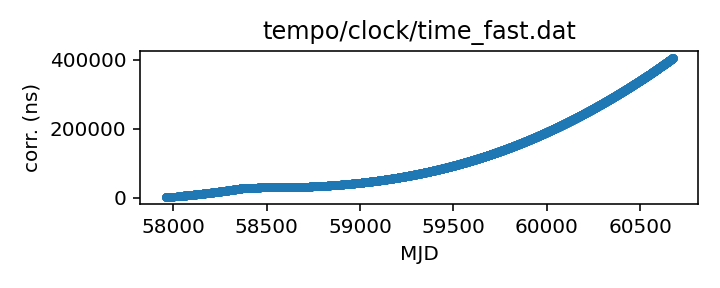
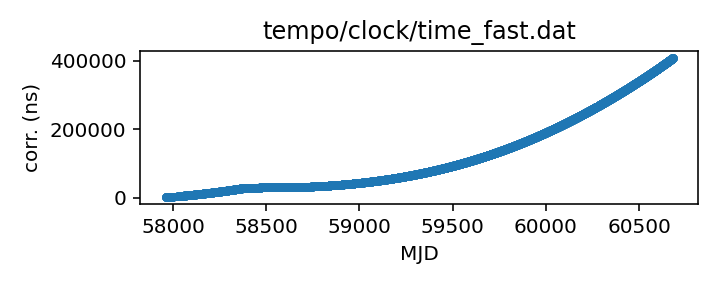
Routine gh-pages update from Github action Wed Jan  8 20:37:41 UTC 2025

diff --git a/status.md b/status.md
@@ -13,18 +13,18 @@ name of each clock file links to a page with more details.
 
 | Name | File | Corrections start | Corrections end | Last check date | Last check result 
 |:--- |:--- | --- | --- | --- |:--- 
-| [GPS to UTC](T2runtime/clock/gps2utc.clk.html) | `T2runtime/clock/gps2utc.clk` | 1993-01-01 MJD 48988.0 | 2024-11-30 MJD 60644.0 | 2025-01-07 | Unchanged 
-| [GPS to UTC (Combined Clock)](T2runtime/clock/gps2utc_cc.clk.html) | `T2runtime/clock/gps2utc_cc.clk` | 1993-01-01 MJD 48988.0 | 2024-11-30 MJD 60644.0 | 2025-01-07 | Unchanged 
-| [GPS to UTC (Corrected)](T2runtime/clock/gps2utc_c0p.clk.html) | `T2runtime/clock/gps2utc_c0p.clk` | 2010-12-29 MJD 55559.0 | 2024-11-30 MJD 60644.0 | 2025-01-07 | Unchanged 
-| [GBT](tempo/clock/time_gbt.dat.html) | `tempo/clock/time_gbt.dat` | 2000-12-31 MJD 51909.5 | 2024-05-18 MJD 60448.5 | 2025-01-07 | **Validation failed** 
+| [GPS to UTC](T2runtime/clock/gps2utc.clk.html) | `T2runtime/clock/gps2utc.clk` | 1993-01-01 MJD 48988.0 | 2024-11-30 MJD 60644.0 | 2025-01-08 | Unchanged 
+| [GPS to UTC (Combined Clock)](T2runtime/clock/gps2utc_cc.clk.html) | `T2runtime/clock/gps2utc_cc.clk` | 1993-01-01 MJD 48988.0 | 2024-11-30 MJD 60644.0 | 2025-01-08 | Unchanged 
+| [GPS to UTC (Corrected)](T2runtime/clock/gps2utc_c0p.clk.html) | `T2runtime/clock/gps2utc_c0p.clk` | 2010-12-29 MJD 55559.0 | 2024-11-30 MJD 60644.0 | 2025-01-08 | Unchanged 
+| [GBT](tempo/clock/time_gbt.dat.html) | `tempo/clock/time_gbt.dat` | 2000-12-31 MJD 51909.5 | 2024-05-18 MJD 60448.5 | 2025-01-08 | **Validation failed** 
 | [GBT (TEMPO2 converted from TEMPO)](T2runtime/clock/gbt2gps.clk.html) | `T2runtime/clock/gbt2gps.clk` | 2000-12-31 MJD 51909.5 | 2024-05-18 MJD 60448.5 | 2024-05-19 | Updated 
-| [Jodrell Bank](T2runtime/clock/jb2gps.clk.html) | `T2runtime/clock/jb2gps.clk` | 2006-10-13 MJD 54021.4 | 2024-11-07 MJD 60621.0 | 2025-01-01 | Unchanged 
-| [Jodrell Bank Roach](T2runtime/clock/jbroach2jb.clk.html) | `T2runtime/clock/jbroach2jb.clk` | 2006-10-13 MJD 54021.4 | 2018-03-20 MJD 58197.6 | 2025-01-01 | Unchanged 
-| [Jodrell Bank DFB](T2runtime/clock/jbdfb2jb.clk.html) | `T2runtime/clock/jbdfb2jb.clk` | 2006-10-13 MJD 54021.4 | 2017-05-11 MJD 57884.0 | 2025-01-01 | Unchanged 
-| [Meerkat (observatory)](T2runtime/clock/mk2utc_observatory.clk.html) | `T2runtime/clock/mk2utc_observatory.clk` | 2019-01-01 MJD 58484.0 | 2024-04-24 MJD 60425.0 | 2025-01-01 | **Failed to download** 
-| [Leap seconds](tempo/clock/leap.sec.html) | `tempo/clock/leap.sec` | 1972-07-01 MJD 41499.0 | 2017-01-01 MJD 57754.0 | 2025-01-07 | Unchanged 
-| [UT1 table](tempo/clock/ut1.dat.html) | `tempo/clock/ut1.dat` | 1973-01-02 MJD 41684.0 | 2026-01-10 MJD 61050.0 | 2025-01-07 | Unchanged 
-| [UT1 table](T2runtime/clock/ut1.dat.html) | `T2runtime/clock/ut1.dat` | 1973-01-02 MJD 41684.0 | 2026-01-10 MJD 61050.0 | 2025-01-07 | Unchanged 
+| [Jodrell Bank](T2runtime/clock/jb2gps.clk.html) | `T2runtime/clock/jb2gps.clk` | 2006-10-13 MJD 54021.4 | 2024-11-07 MJD 60621.0 | 2025-01-08 | Unchanged 
+| [Jodrell Bank Roach](T2runtime/clock/jbroach2jb.clk.html) | `T2runtime/clock/jbroach2jb.clk` | 2006-10-13 MJD 54021.4 | 2018-03-20 MJD 58197.6 | 2025-01-08 | Unchanged 
+| [Jodrell Bank DFB](T2runtime/clock/jbdfb2jb.clk.html) | `T2runtime/clock/jbdfb2jb.clk` | 2006-10-13 MJD 54021.4 | 2017-05-11 MJD 57884.0 | 2025-01-08 | Unchanged 
+| [Meerkat (observatory)](T2runtime/clock/mk2utc_observatory.clk.html) | `T2runtime/clock/mk2utc_observatory.clk` | 2019-01-01 MJD 58484.0 | 2024-04-24 MJD 60425.0 | 2025-01-08 | **Failed to download** 
+| [Leap seconds](tempo/clock/leap.sec.html) | `tempo/clock/leap.sec` | 1972-07-01 MJD 41499.0 | 2017-01-01 MJD 57754.0 | 2025-01-08 | Unchanged 
+| [UT1 table](tempo/clock/ut1.dat.html) | `tempo/clock/ut1.dat` | 1973-01-02 MJD 41684.0 | 2026-01-10 MJD 61050.0 | 2025-01-08 | Unchanged 
+| [UT1 table](T2runtime/clock/ut1.dat.html) | `T2runtime/clock/ut1.dat` | 1973-01-02 MJD 41684.0 | 2026-01-10 MJD 61050.0 | 2025-01-08 | Unchanged 
 
 
 
@@ -67,26 +67,26 @@ name of each clock file links to a page with more details.
 
 | Name | File | Corrections start | Corrections end | Last check date | Last check result 
 |:--- |:--- | --- | --- | --- |:--- 
-| [GPS to UTC (TEMPO2)](T2runtime/clock/gps2utc_tempo2.clk.html) | `T2runtime/clock/gps2utc_tempo2.clk` | 1996-03-27 MJD 50169.0 | 2022-10-27 MJD 59879.0 | 2025-01-01 | **Failed to download** 
-| [GBT (TEMPO2)](T2runtime/clock/gbt2gps_tempo2.clk.html) | `T2runtime/clock/gbt2gps_tempo2.clk` | 2000-12-31 MJD 51909.5 | 2020-02-25 MJD 58904.5 | 2025-01-01 | Unchanged 
-| [Jodrell Bank (TEMPO)](tempo/clock/time_jb.dat.html) | `tempo/clock/time_jb.dat` | 2006-10-13 MJD 54021.4 | 2019-05-13 MJD 58616.2 | 2025-01-01 | Unchanged 
-| [VLA](tempo/clock/time_vla.dat.html) | `tempo/clock/time_vla.dat` | 1990-10-27 MJD 48191.2 | 2021-03-07 MJD 59280.5 | 2025-01-01 | Unchanged 
-| [VLA (TEMPO2)](T2runtime/clock/vla2gps.clk.html) | `T2runtime/clock/vla2gps.clk` | 2015-02-01 MJD 57054.6 | 2021-03-07 MJD 59280.5 | 2025-01-01 | Unchanged 
-| [VLA to NIST](T2runtime/clock/vla2nist.clk.html) | `T2runtime/clock/vla2nist.clk` | 1990-10-27 MJD 48191.2 | 1993-11-13 MJD 49304.0 | 2025-01-01 | Unchanged 
-| [FAST](tempo/clock/time_fast.dat.html) | `tempo/clock/time_fast.dat` | 2017-07-27 MJD 57961.0 | 2024-12-30 MJD 60675.0 | 2025-01-01 | Updated 
-| [WSRT](T2runtime/clock/wsrt2gps.clk.html) | `T2runtime/clock/wsrt2gps.clk` | 1999-01-01 MJD 51179.5 | 2015-06-29 MJD 57202.1 | 2025-01-01 | Unchanged 
-| [WSRT (TEMPO)](tempo/clock/time_wsrt.dat.html) | `tempo/clock/time_wsrt.dat` | 1987-07-24 MJD 47000.0 | 2007-12-24 MJD 54458.0 | 2025-01-01 | **Validation failed** 
-| [Parkes](T2runtime/clock/pks2gps.clk.html) | `T2runtime/clock/pks2gps.clk` | 1858-11-17 MJD 0.0 | 2024-11-30 MJD 60644.1 | 2025-01-01 | Unchanged 
-| [Parkes (TEMPO)](tempo/clock/time_pks.dat.html) | `tempo/clock/time_pks.dat` | 1979-05-07 MJD 44000.0 | 2011-07-03 MJD 55745.8 | 2025-01-01 | **Validation failed** 
-| [SRT](T2runtime/clock/srt2gps.clk.html) | `T2runtime/clock/srt2gps.clk` | 2013-03-20 MJD 56371.0 | 2019-12-11 MJD 58828.0 | 2025-01-01 | Unchanged 
-| [Effelsberg](T2runtime/clock/eff2gps.clk.html) | `T2runtime/clock/eff2gps.clk` | 1993-11-29 MJD 49320.0 | 2015-06-22 MJD 57195.5 | 2025-01-01 | Unchanged 
-| [Effelsberg Asterix/PSRix](T2runtime/clock/effix2gps.clk.html) | `T2runtime/clock/effix2gps.clk` | 2011-01-01 MJD 55562.5 | 2021-03-21 MJD 59294.5 | 2025-01-01 | Unchanged 
-| [LEAP](T2runtime/clock/leap2effix.clk.html) | `T2runtime/clock/leap2effix.clk` | 2012-10-29 MJD 56230.0 | 2014-03-04 MJD 56720.0 | 2025-01-01 | Unchanged 
-| [NUPPI](tempo/clock/time_nuppi.dat.html) | `tempo/clock/time_nuppi.dat` | 2005-03-07 MJD 53436.0 | 2015-11-08 MJD 57334.6 | 2025-01-01 | Unchanged 
-| [Meerkat (TEMPO2)](T2runtime/clock/mk2utc.clk.html) | `T2runtime/clock/mk2utc.clk` | 2019-01-01 MJD 58484.0 | 2024-09-23 MJD 60576.9 | 2025-01-01 | Unchanged 
-| [MOST](T2runtime/clock/mo2gps.clk.html) | `T2runtime/clock/mo2gps.clk` | 2003-12-27 MJD 53000.0 | 2018-09-06 MJD 58367.0 | 2025-01-01 | Unchanged 
-| [Nancay to obspm](T2runtime/clock/ncyobs2obspm.clk.html) | `T2runtime/clock/ncyobs2obspm.clk` | 1988-05-18 MJD 47299.6 | 2023-10-27 MJD 60244.0 | 2025-01-01 | Unchanged 
-| [obspm](T2runtime/clock/obspm2gps.clk.html) | `T2runtime/clock/obspm2gps.clk` | 2003-12-01 MJD 52974.0 | 2023-10-27 MJD 60244.0 | 2025-01-01 | Unchanged 
+| [GPS to UTC (TEMPO2)](T2runtime/clock/gps2utc_tempo2.clk.html) | `T2runtime/clock/gps2utc_tempo2.clk` | 1996-03-27 MJD 50169.0 | 2022-10-27 MJD 59879.0 | 2025-01-08 | **Failed to download** 
+| [GBT (TEMPO2)](T2runtime/clock/gbt2gps_tempo2.clk.html) | `T2runtime/clock/gbt2gps_tempo2.clk` | 2000-12-31 MJD 51909.5 | 2020-02-25 MJD 58904.5 | 2025-01-08 | Unchanged 
+| [Jodrell Bank (TEMPO)](tempo/clock/time_jb.dat.html) | `tempo/clock/time_jb.dat` | 2006-10-13 MJD 54021.4 | 2019-05-13 MJD 58616.2 | 2025-01-08 | Unchanged 
+| [VLA](tempo/clock/time_vla.dat.html) | `tempo/clock/time_vla.dat` | 1990-10-27 MJD 48191.2 | 2021-03-07 MJD 59280.5 | 2025-01-08 | Unchanged 
+| [VLA (TEMPO2)](T2runtime/clock/vla2gps.clk.html) | `T2runtime/clock/vla2gps.clk` | 2015-02-01 MJD 57054.6 | 2021-03-07 MJD 59280.5 | 2025-01-08 | Unchanged 
+| [VLA to NIST](T2runtime/clock/vla2nist.clk.html) | `T2runtime/clock/vla2nist.clk` | 1990-10-27 MJD 48191.2 | 1993-11-13 MJD 49304.0 | 2025-01-08 | Unchanged 
+| [FAST](tempo/clock/time_fast.dat.html) | `tempo/clock/time_fast.dat` | 2017-07-27 MJD 57961.0 | 2025-01-06 MJD 60682.0 | 2025-01-08 | Updated 
+| [WSRT](T2runtime/clock/wsrt2gps.clk.html) | `T2runtime/clock/wsrt2gps.clk` | 1999-01-01 MJD 51179.5 | 2015-06-29 MJD 57202.1 | 2025-01-08 | Unchanged 
+| [WSRT (TEMPO)](tempo/clock/time_wsrt.dat.html) | `tempo/clock/time_wsrt.dat` | 1987-07-24 MJD 47000.0 | 2007-12-24 MJD 54458.0 | 2025-01-08 | **Validation failed** 
+| [Parkes](T2runtime/clock/pks2gps.clk.html) | `T2runtime/clock/pks2gps.clk` | 1858-11-17 MJD 0.0 | 2024-11-30 MJD 60644.1 | 2025-01-08 | Unchanged 
+| [Parkes (TEMPO)](tempo/clock/time_pks.dat.html) | `tempo/clock/time_pks.dat` | 1979-05-07 MJD 44000.0 | 2011-07-03 MJD 55745.8 | 2025-01-08 | **Validation failed** 
+| [SRT](T2runtime/clock/srt2gps.clk.html) | `T2runtime/clock/srt2gps.clk` | 2013-03-20 MJD 56371.0 | 2019-12-11 MJD 58828.0 | 2025-01-08 | Unchanged 
+| [Effelsberg](T2runtime/clock/eff2gps.clk.html) | `T2runtime/clock/eff2gps.clk` | 1993-11-29 MJD 49320.0 | 2015-06-22 MJD 57195.5 | 2025-01-08 | Unchanged 
+| [Effelsberg Asterix/PSRix](T2runtime/clock/effix2gps.clk.html) | `T2runtime/clock/effix2gps.clk` | 2011-01-01 MJD 55562.5 | 2021-03-21 MJD 59294.5 | 2025-01-08 | Unchanged 
+| [LEAP](T2runtime/clock/leap2effix.clk.html) | `T2runtime/clock/leap2effix.clk` | 2012-10-29 MJD 56230.0 | 2014-03-04 MJD 56720.0 | 2025-01-08 | Unchanged 
+| [NUPPI](tempo/clock/time_nuppi.dat.html) | `tempo/clock/time_nuppi.dat` | 2005-03-07 MJD 53436.0 | 2015-11-08 MJD 57334.6 | 2025-01-08 | Unchanged 
+| [Meerkat (TEMPO2)](T2runtime/clock/mk2utc.clk.html) | `T2runtime/clock/mk2utc.clk` | 2019-01-01 MJD 58484.0 | 2024-09-23 MJD 60576.9 | 2025-01-08 | Unchanged 
+| [MOST](T2runtime/clock/mo2gps.clk.html) | `T2runtime/clock/mo2gps.clk` | 2003-12-27 MJD 53000.0 | 2018-09-06 MJD 58367.0 | 2025-01-08 | Unchanged 
+| [Nancay to obspm](T2runtime/clock/ncyobs2obspm.clk.html) | `T2runtime/clock/ncyobs2obspm.clk` | 1988-05-18 MJD 47299.6 | 2023-10-27 MJD 60244.0 | 2025-01-08 | Unchanged 
+| [obspm](T2runtime/clock/obspm2gps.clk.html) | `T2runtime/clock/obspm2gps.clk` | 2003-12-01 MJD 52974.0 | 2023-10-27 MJD 60244.0 | 2025-01-08 | Unchanged 
 
 
 ### Further information:

diff --git a/tempo/clock/time_pks.dat.md b/tempo/clock/time_pks.dat.md
@@ -20,12 +20,11 @@ telescopes in the same file, distinguished only by observatory code.
 | Clock file start | 1979-05-07 MJD 44000.0 |
 | Clock file end | 2011-07-03 MJD 55745.8 |
 | Update interval (days) | 7 |
-| Last update attempt | 2025-01-01 |
+| Last update attempt | 2025-01-08 |
 | Last update result | Validation failed |
 
 Log entries from the last few update attempts:
 ```
-2024-09-20 20:33:31.784 - Validation failed: Unable to read new version of tempo/clock/time_pks.dat: Clock file /tmp/astropy-download-1893-m35dbe__ appears to be out of order: 49959.0 > 49958.0
 2024-09-27 20:33:24.548 - Validation failed: Unable to read new version of tempo/clock/time_pks.dat: Clock file /tmp/astropy-download-1803-aho2ayns appears to be out of order: 49959.0 > 49958.0
 2024-10-04 20:33:16.722 - Validation failed: Unable to read new version of tempo/clock/time_pks.dat: Clock file /tmp/astropy-download-1844-zxupk919 appears to be out of order: 49959.0 > 49958.0
 2024-10-11 20:39:11.255 - Validation failed: Unable to read new version of tempo/clock/time_pks.dat: Clock file /tmp/astropy-download-2062-ylxvq7_t appears to be out of order: 49959.0 > 49958.0
@@ -35,6 +34,7 @@ Log entries from the last few update attempts:
 2024-12-18 20:39:24.379 - Validation failed: Unable to read new version of tempo/clock/time_pks.dat: Clock file /tmp/astropy-download-2274-q5yfgh14 appears to be out of order: 49959.0 > 49958.0
 2024-12-25 20:35:15.566 - Validation failed: Unable to read new version of tempo/clock/time_pks.dat: Clock file /tmp/astropy-download-2307-uzx6wu0r appears to be out of order: 49959.0 > 49958.0
 2025-01-01 20:35:37.359 - Validation failed: Unable to read new version of tempo/clock/time_pks.dat: Clock file /tmp/astropy-download-2322-zqzvwthm appears to be out of order: 49959.0 > 49958.0
+2025-01-08 20:36:54.237 - Validation failed: Unable to read new version of tempo/clock/time_pks.dat: Clock file /tmp/astropy-download-2276-gpk3q2dj appears to be out of order: 49959.0 > 49958.0
 ```
 [Full log](https://raw.githubusercontent.com/ipta/pulsar-clock-corrections/main/log/tempo/clock/time_pks.dat.log)
 

diff --git a/tempo/clock/time_wsrt.dat.md b/tempo/clock/time_wsrt.dat.md
@@ -20,12 +20,11 @@ should be the same information.
 | Clock file start | 1987-07-24 MJD 47000.0 |
 | Clock file end | 2007-12-24 MJD 54458.0 |
 | Update interval (days) | 7 |
-| Last update attempt | 2025-01-01 |
+| Last update attempt | 2025-01-08 |
 | Last update result | Validation failed |
 
 Log entries from the last few update attempts:
 ```
-2024-09-20 20:33:26.812 - Validation failed: Unable to read new version of tempo/clock/time_wsrt.dat: Clock file /tmp/astropy-download-1893-omoncdps appears to be out of order: 53000.05 > 53000.0
 2024-09-27 20:33:19.383 - Validation failed: Unable to read new version of tempo/clock/time_wsrt.dat: Clock file /tmp/astropy-download-1803-r_a7vr88 appears to be out of order: 53000.05 > 53000.0
 2024-10-04 20:33:11.870 - Validation failed: Unable to read new version of tempo/clock/time_wsrt.dat: Clock file /tmp/astropy-download-1844-0osy84qv appears to be out of order: 53000.05 > 53000.0
 2024-10-11 20:39:06.536 - Validation failed: Unable to read new version of tempo/clock/time_wsrt.dat: Clock file /tmp/astropy-download-2062-gcmj1d9q appears to be out of order: 53000.05 > 53000.0
@@ -35,6 +34,7 @@ Log entries from the last few update attempts:
 2024-12-18 20:39:20.524 - Validation failed: Unable to read new version of tempo/clock/time_wsrt.dat: Clock file /tmp/astropy-download-2274-sevzn3la appears to be out of order: 53000.05 > 53000.0
 2024-12-25 20:35:09.858 - Validation failed: Unable to read new version of tempo/clock/time_wsrt.dat: Clock file /tmp/astropy-download-2307-1yb4h9et appears to be out of order: 53000.05 > 53000.0
 2025-01-01 20:35:30.783 - Validation failed: Unable to read new version of tempo/clock/time_wsrt.dat: Clock file /tmp/astropy-download-2322-p_8_1oop appears to be out of order: 53000.05 > 53000.0
+2025-01-08 20:36:50.333 - Validation failed: Unable to read new version of tempo/clock/time_wsrt.dat: Clock file /tmp/astropy-download-2276-l3i_8691 appears to be out of order: 53000.05 > 53000.0
 ```
 [Full log](https://raw.githubusercontent.com/ipta/pulsar-clock-corrections/main/log/tempo/clock/time_wsrt.dat.log)
 

diff --git a/tempo/clock/time_gbt.dat.md b/tempo/clock/time_gbt.dat.md
@@ -33,12 +33,11 @@ If questions arise, contact Ryan S. Lynch <rlynch@nrao.edu>.
 | Clock file start | 2000-12-31 MJD 51909.5 |
 | Clock file end | 2024-05-18 MJD 60448.5 |
 | Update interval (days) | 1 |
-| Last update attempt | 2025-01-07 |
+| Last update attempt | 2025-01-08 |
 | Last update result | Validation failed |
 
 Log entries from the last few update attempts:
 ```
-2024-12-29 20:34:16.889 - Validation failed: New version of tempo/clock/time_gbt.dat clock corrections differ from old version where they overlap in 11 places
 2024-12-30 20:35:00.232 - Validation failed: New version of tempo/clock/time_gbt.dat clock corrections differ from old version where they overlap in 11 places
 2024-12-31 20:34:37.778 - Validation failed: New version of tempo/clock/time_gbt.dat clock corrections differ from old version where they overlap in 11 places
 2025-01-01 20:35:22.949 - Validation failed: New version of tempo/clock/time_gbt.dat clock corrections differ from old version where they overlap in 11 places
@@ -48,6 +47,7 @@ Log entries from the last few update attempts:
 2025-01-05 20:34:24.272 - Validation failed: New version of tempo/clock/time_gbt.dat clock corrections differ from old version where they overlap in 11 places
 2025-01-06 20:35:01.444 - Validation failed: New version of tempo/clock/time_gbt.dat clock corrections differ from old version where they overlap in 11 places
 2025-01-07 20:36:07.109 - Validation failed: New version of tempo/clock/time_gbt.dat clock corrections differ from old version where they overlap in 11 places
+2025-01-08 20:36:44.963 - Validation failed: New version of tempo/clock/time_gbt.dat clock corrections differ from old version where they overlap in 11 places
 ```
 [Full log](https://raw.githubusercontent.com/ipta/pulsar-clock-corrections/main/log/tempo/clock/time_gbt.dat.log)
 

diff --git a/T2runtime/clock/mk2utc_observatory.clk.md b/T2runtime/clock/mk2utc_observatory.clk.md
@@ -21,12 +21,11 @@ If questions arise, contact Ryan Shannon <rshannon@swin.edu.au>
 | Clock file start | 2019-01-01 MJD 58484.0 |
 | Clock file end | 2024-04-24 MJD 60425.0 |
 | Update interval (days) | 7 |
-| Last update attempt | 2025-01-01 |
+| Last update attempt | 2025-01-08 |
 | Last update result | Failed to download |
 
 Log entries from the last few update attempts:
 ```
-2024-09-20 20:33:35.218 - Validation failed: Unable to read new version of T2runtime/clock/mk2utc_observatory.clk: Header line must start with # and contain two time scales: 'The SARAO archive is currently down. We apologise for the inconvenience. We will remove this alert once the archive is available again.\n'
 2024-09-27 20:33:26.829 - Failed to download: HTTP Error 403: Forbidden
 2024-10-04 20:33:22.425 - Failed to download: HTTP Error 403: Forbidden
 2024-10-11 20:39:13.519 - Failed to download: HTTP Error 403: Forbidden
@@ -36,6 +35,7 @@ Log entries from the last few update attempts:
 2024-12-18 20:39:27.691 - Failed to download: HTTP Error 403: Forbidden
 2024-12-25 20:35:18.261 - Failed to download: HTTP Error 403: Forbidden
 2025-01-01 20:35:40.302 - Failed to download: HTTP Error 403: Forbidden
+2025-01-08 20:37:07.662 - Failed to download: The read operation timed out
 ```
 [Full log](https://raw.githubusercontent.com/ipta/pulsar-clock-corrections/main/log/T2runtime/clock/mk2utc_observatory.clk.log)
 

diff --git a/T2runtime/clock/gps2utc_tempo2.clk.md b/T2runtime/clock/gps2utc_tempo2.clk.md
@@ -27,12 +27,11 @@ are from the column C0').
 | Clock file start | 1996-03-27 MJD 50169.0 |
 | Clock file end | 2022-10-27 MJD 59879.0 |
 | Update interval (days) | 7 |
-| Last update attempt | 2025-01-01 |
+| Last update attempt | 2025-01-08 |
 | Last update result | Failed to download |
 
 Log entries from the last few update attempts:
 ```
-2024-09-20 20:32:57.970 - Failed to download: HTTP Error 404: Not Found
 2024-09-27 20:32:51.886 - Failed to download: HTTP Error 404: Not Found
 2024-10-04 20:32:41.616 - Failed to download: HTTP Error 404: Not Found
 2024-10-11 20:38:36.240 - Failed to download: HTTP Error 404: Not Found
@@ -42,6 +41,7 @@ Log entries from the last few update attempts:
 2024-12-18 20:35:22.623 - Failed to download: HTTP Error 404: Not Found
 2024-12-25 20:31:25.759 - Failed to download: HTTP Error 404: Not Found
 2025-01-01 20:31:40.086 - Failed to download: HTTP Error 404: Not Found
+2025-01-08 20:32:59.291 - Failed to download: HTTP Error 404: Not Found
 ```
 [Full log](https://raw.githubusercontent.com/ipta/pulsar-clock-corrections/main/log/T2runtime/clock/gps2utc_tempo2.clk.log)
 

diff --git a/tempo/clock/time_fast.dat.md b/tempo/clock/time_fast.dat.md
@@ -14,14 +14,13 @@ This file is pulled from the FAST_ClockFile repository.
 | Format | tempo |
 | Bogus last correction | False |
 | Clock file start | 2017-07-27 MJD 57961.0 |
-| Clock file end | 2024-12-30 MJD 60675.0 |
+| Clock file end | 2025-01-06 MJD 60682.0 |
 | Update interval (days) | 7 |
-| Last update attempt | 2025-01-01 |
+| Last update attempt | 2025-01-08 |
 | Last update result | Updated |
 
 Log entries from the last few update attempts:
 ```
-2024-09-20 20:33:23.772 - Updated
 2024-09-27 20:33:18.896 - Updated
 2024-10-04 20:33:11.391 - Updated
 2024-10-11 20:39:06.020 - Updated
@@ -31,6 +30,7 @@ Log entries from the last few update attempts:
 2024-12-18 20:39:19.819 - Updated
 2024-12-25 20:35:02.820 - Updated
 2025-01-01 20:35:27.188 - Updated
+2025-01-08 20:36:49.677 - Updated
 ```
 [Full log](https://raw.githubusercontent.com/ipta/pulsar-clock-corrections/main/log/tempo/clock/time_fast.dat.log)
 

diff --git a/T2runtime/clock/gps2utc_c0p.clk.md b/T2runtime/clock/gps2utc_c0p.clk.md
@@ -30,12 +30,11 @@ about the BIPM's published corrections, contact <tai@bipm.org>.
 | Clock file start | 2010-12-29 MJD 55559.0 |
 | Clock file end | 2024-11-30 MJD 60644.0 |
 | Update interval (days) | 1 |
-| Last update attempt | 2025-01-07 |
+| Last update attempt | 2025-01-08 |
 | Last update result | Unchanged |
 
 Log entries from the last few update attempts:
 ```
-2024-12-29 20:34:16.408 - Unchanged
 2024-12-30 20:34:59.812 - Unchanged
 2024-12-31 20:34:37.350 - Unchanged
 2025-01-01 20:35:22.181 - Unchanged
@@ -45,6 +44,7 @@ Log entries from the last few update attempts:
 2025-01-05 20:34:23.846 - Unchanged
 2025-01-06 20:35:01.151 - Unchanged
 2025-01-07 20:36:06.879 - Unchanged
+2025-01-08 20:36:44.163 - Unchanged
 ```
 [Full log](https://raw.githubusercontent.com/ipta/pulsar-clock-corrections/main/log/T2runtime/clock/gps2utc_c0p.clk.log)
 

diff --git a/T2runtime/clock/gps2utc_cc.clk.md b/T2runtime/clock/gps2utc_cc.clk.md
@@ -29,12 +29,11 @@ about the BIPM's published corrections, contact <tai@bipm.org>.
 | Clock file start | 1993-01-01 MJD 48988.0 |
 | Clock file end | 2024-11-30 MJD 60644.0 |
 | Update interval (days) | 1 |
-| Last update attempt | 2025-01-07 |
+| Last update attempt | 2025-01-08 |
 | Last update result | Unchanged |
 
 Log entries from the last few update attempts:
 ```
-2024-12-29 20:34:16.401 - Unchanged
 2024-12-30 20:34:59.804 - Unchanged
 2024-12-31 20:34:37.343 - Unchanged
 2025-01-01 20:35:22.173 - Unchanged
@@ -44,6 +43,7 @@ Log entries from the last few update attempts:
 2025-01-05 20:34:23.839 - Unchanged
 2025-01-06 20:35:01.144 - Unchanged
 2025-01-07 20:36:06.872 - Unchanged
+2025-01-08 20:36:44.155 - Unchanged
 ```
 [Full log](https://raw.githubusercontent.com/ipta/pulsar-clock-corrections/main/log/T2runtime/clock/gps2utc_cc.clk.log)
 

diff --git a/T2runtime/clock/gps2utc.clk.md b/T2runtime/clock/gps2utc.clk.md
@@ -32,12 +32,11 @@ about the BIPM's published corrections, contact <tai@bipm.org>.
 | Clock file start | 1993-01-01 MJD 48988.0 |
 | Clock file end | 2024-11-30 MJD 60644.0 |
 | Update interval (days) | 1 |
-| Last update attempt | 2025-01-07 |
+| Last update attempt | 2025-01-08 |
 | Last update result | Unchanged |
 
 Log entries from the last few update attempts:
 ```
-2024-12-29 20:34:16.378 - Unchanged
 2024-12-30 20:34:59.781 - Unchanged
 2024-12-31 20:34:37.320 - Unchanged
 2025-01-01 20:35:22.150 - Unchanged
@@ -47,6 +46,7 @@ Log entries from the last few update attempts:
 2025-01-05 20:34:23.816 - Unchanged
 2025-01-06 20:35:01.122 - Unchanged
 2025-01-07 20:36:06.850 - Unchanged
+2025-01-08 20:36:44.132 - Unchanged
 ```
 [Full log](https://raw.githubusercontent.com/ipta/pulsar-clock-corrections/main/log/T2runtime/clock/gps2utc.clk.log)
 

diff --git a/T2runtime/clock/ncyobs2obspm.clk.md b/T2runtime/clock/ncyobs2obspm.clk.md
@@ -22,12 +22,11 @@ thus here) can be expected to be somewhat up to date.
 | Clock file start | 1988-05-18 MJD 47299.6 |
 | Clock file end | 2023-10-27 MJD 60244.0 |
 | Update interval (days) | 7 |
-| Last update attempt | 2025-01-01 |
+| Last update attempt | 2025-01-08 |
 | Last update result | Unchanged |
 
 Log entries from the last few update attempts:
 ```
-2024-09-20 20:33:36.050 - Unchanged
 2024-09-27 20:33:27.623 - Unchanged
 2024-10-04 20:33:23.482 - Unchanged
 2024-10-11 20:39:14.655 - Unchanged
@@ -37,6 +36,7 @@ Log entries from the last few update attempts:
 2024-12-18 20:39:29.775 - Unchanged
 2024-12-25 20:35:19.376 - Unchanged
 2025-01-01 20:35:42.069 - Unchanged
+2025-01-08 20:37:09.786 - Unchanged
 ```
 [Full log](https://raw.githubusercontent.com/ipta/pulsar-clock-corrections/main/log/T2runtime/clock/ncyobs2obspm.clk.log)
 

diff --git a/T2runtime/clock/leap2effix.clk.md b/T2runtime/clock/leap2effix.clk.md
@@ -23,12 +23,11 @@ thus here) can be expected to be somewhat up to date.
 | Clock file start | 2012-10-29 MJD 56230.0 |
 | Clock file end | 2014-03-04 MJD 56720.0 |
 | Update interval (days) | 7 |
-| Last update attempt | 2025-01-01 |
+| Last update attempt | 2025-01-08 |
 | Last update result | Unchanged |
 
 Log entries from the last few update attempts:
 ```
-2024-09-20 20:33:32.391 - Unchanged
 2024-09-27 20:33:25.117 - Unchanged
 2024-10-04 20:33:17.611 - Unchanged
 2024-10-11 20:39:12.181 - Unchanged
@@ -38,6 +37,7 @@ Log entries from the last few update attempts:
 2024-12-18 20:39:26.103 - Unchanged
 2024-12-25 20:35:16.101 - Unchanged
 2025-01-01 20:35:38.815 - Unchanged
+2025-01-08 20:36:56.112 - Unchanged
 ```
 [Full log](https://raw.githubusercontent.com/ipta/pulsar-clock-corrections/main/log/T2runtime/clock/leap2effix.clk.log)
 
